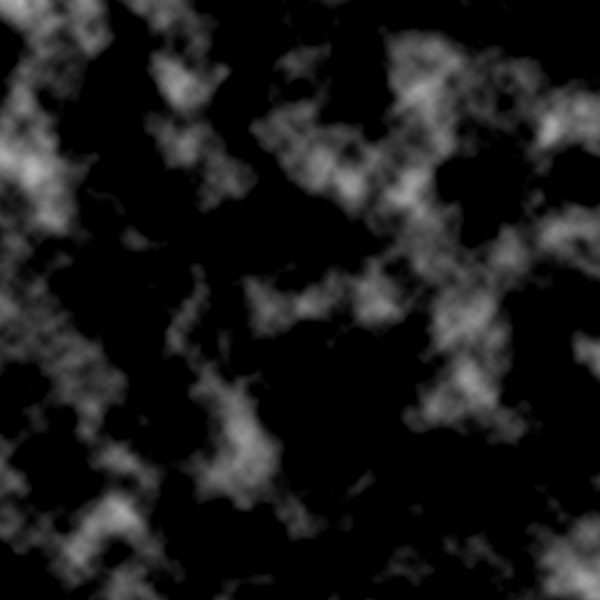
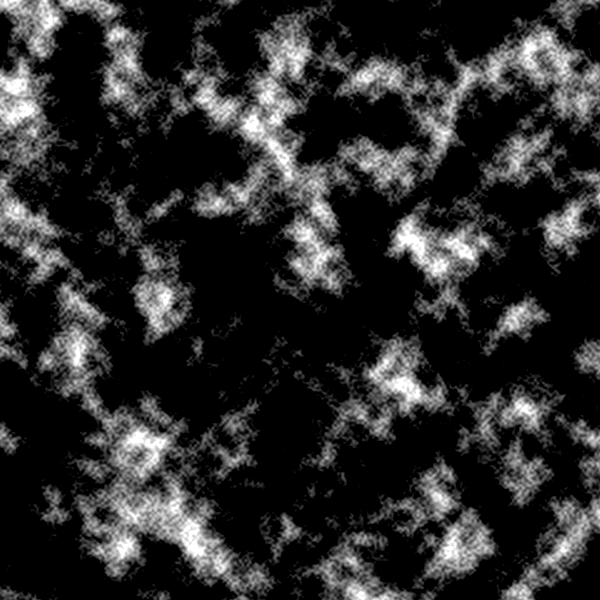
remove unnecessary iterations

diff --git a/generator.go b/generator.go
@@ -97,7 +97,7 @@ func StretchedNoise(pos vec2, perms []int, grads []vec2, stretch float64) float6
 	return CubicInterpolation(p, fracY)
 }
 
-func GenerateNoiseMap(width int, height int, octaves int, stretch float64, multiplier float64) []float64 {
+func GenerateNoiseMap(width int, height int, octave float64, stretch float64, multiplier float64) []float64 {
 
 	perms := GeneratePermutations()
 	grads := GenerateGradients()
@@ -106,25 +106,9 @@ func GenerateNoiseMap(width int, height int, octaves int, stretch float64, multi
 	index := 0
 	for y := 0; y < height; y++ {
 		for x := 0; x < width; x++ {
-
-			total := 0.0
-			frequency := 1.0
-			amplitude := 1.0
-			maxValue := 0.0
-
-			for octave := 0; octave < octaves; octave++ {
-				pos := vec2{
-					float64(x) * frequency,
-					float64(y) * frequency}
-				noise := StretchedNoise(pos, perms, grads, stretch) * multiplier * amplitude
-				total += noise / 2.0
-				maxValue += amplitude
-				amplitude *= 0.25
-				frequency *= 2
-			}
-
-			norm := total / maxValue
-			data[index] = norm
+			pos := vec2{float64(x) * octave, float64(y) * octave}
+			data[index] = StretchedNoise(pos, perms, grads, stretch) * multiplier
+			data[index] /= 2.0
 			index++
 		}
 	}
@@ -162,11 +146,11 @@ func RenderToImage() {
 	const imageWidth = 600
 	const imageHeight = 600
 
-	multipliers := [3]float64{0.6, 0.3, 0.1}
+	multipliers := [3]float64{1.0, 0.5, 0.25}
 
-	noiseData1 := GenerateNoiseMap(imageWidth, imageHeight, 2, 40, multipliers[0])
-	noiseData2 := GenerateNoiseMap(imageWidth, imageHeight, 3, 22, multipliers[1])
-	noiseData3 := GenerateNoiseMap(imageWidth, imageHeight, 1, 10, multipliers[2])
+	noiseData1 := GenerateNoiseMap(imageWidth, imageHeight, 1, 40, multipliers[0])
+	noiseData2 := GenerateNoiseMap(imageWidth, imageHeight, 2, 22, multipliers[1])
+	noiseData3 := GenerateNoiseMap(imageWidth, imageHeight, 4, 10, multipliers[2])
 
 	mapData := MergeNoiseData(multipliers[:], noiseData1, noiseData2, noiseData3)
 	colors := NoiseDataToColor(mapData)

diff --git a/imagewriter.go b/imagewriter.go
@@ -25,9 +25,9 @@ func Clamp(x, min, max float64) float64 {
 
 func WriteColor(pixelColor *color) string {
 	return fmt.Sprintf("%d %d %d\n",
-		int32(512*Clamp(pixelColor.r, 0.0, 0.5)),
-		int32(512*Clamp(pixelColor.g, 0.0, 0.5)),
-		int32(512*Clamp(pixelColor.b, 0.0, 0.5)))
+		int32(512*Clamp(pixelColor.r, 0.0, 0.499)),
+		int32(512*Clamp(pixelColor.g, 0.0, 0.499)),
+		int32(512*Clamp(pixelColor.b, 0.0, 0.499)))
 }
 
 func WriteToPPMFile(outputFile string, imageWidth int, imageHeight int, colorData []color) {
